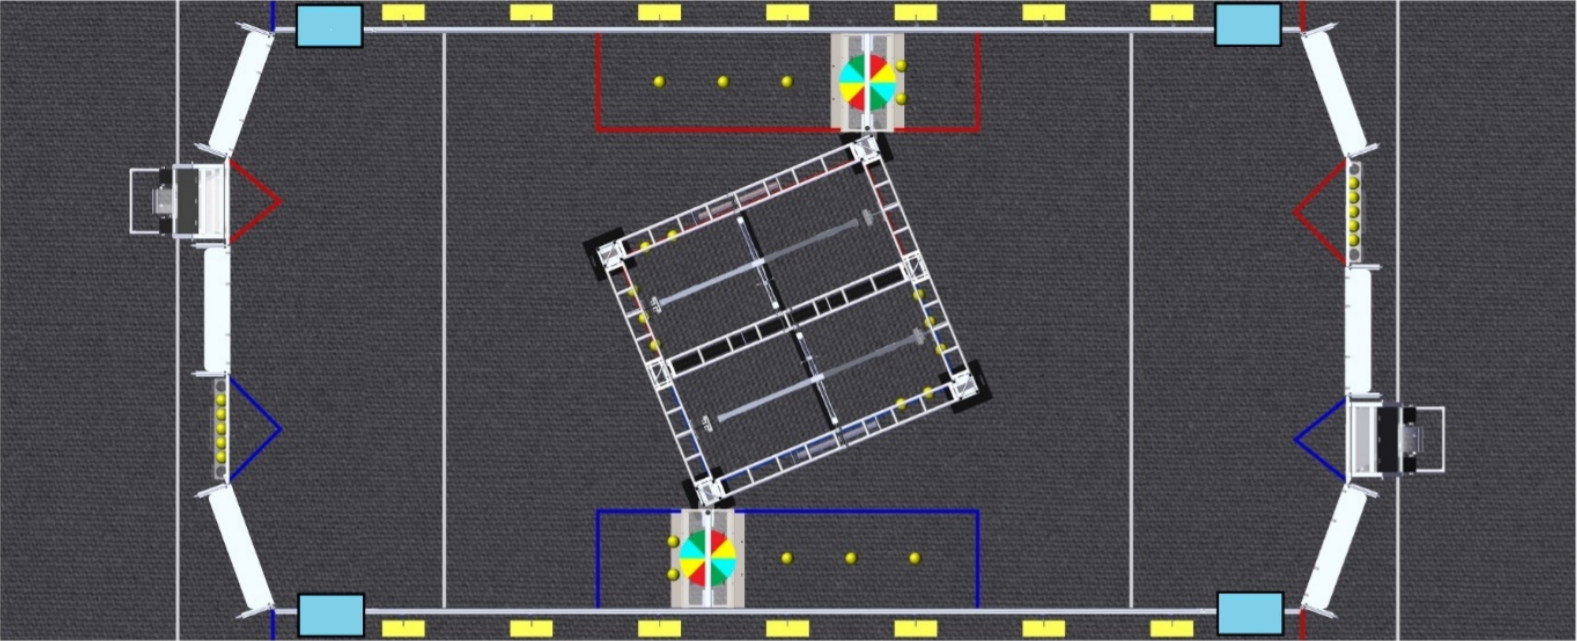
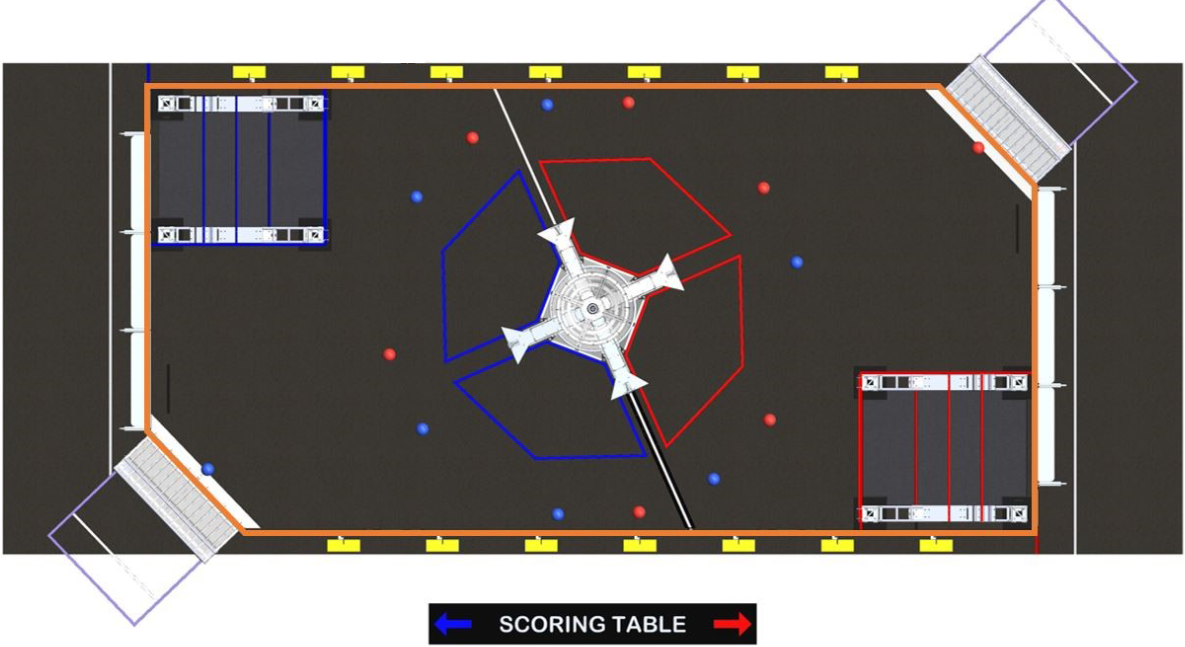
New FRC game

diff --git a/FRC/index.html b/FRC/index.html
@@ -12,63 +12,112 @@
     var field = new Image();
     field.src = "field.png";
     field.onload = function(){
-      ctx.drawImage(field, 0, 0, 1250, 600);
+      ctx.drawImage(field, 0, 0, 1185, 647);
     }
-    var loadingZone = new Polygon([new Point(180, 350), new Point(220, 400), new Point(180, 446)], "LOADING ZONE: a 5 ft. (~152 cm) wide, 2 ft. 6 in. (~76 cm) deep infinitely tall volume with a triangular \
-base bounded by the LOADING BAY and ALLIANCE colored tape. The LOADING ZONE includes the \
-ALLIANCE colored tape.");
-    var allianceStation = new Polygon([new Point(0, 0), new Point(140, 0), new Point(140, 600), new Point(0, 600)], "ALLIANCE STATION: a 30-ft. (~914 cm) wide by 10 ft. 9⅛ in. (~328 cm) to 12 ft. 10⅞ in. (~393 cm) deep \
+    var generalRules = "GENERAL RULES: \
+    \
+    ROBOT height, as measured when it's resting normally on a \
+flat floor, may not exceed the maximum STARTING CONFIGURATION height (4 ft. 4 in. (~132 \
+cm)) unless any part of the ROBOT'S BUMPERS is in its HANGAR ZONE, in which case its height \
+may not exceed 5 ft. 6 in. (~167 cm). ROBOTS may not extend more than 16 in. (~40 cm) beyond their \
+FRAME PERIMETER. A ROBOT may not position itself such that any part of its BUMPERS is higher than \
+the HIGH RUNG. ROBOTS may never extend beyond the PURPLE PLANE. ROBOTS may not PIN an opponent's ROBOT for more than 5 \
+seconds. \
+\
+A ROBOT may not contact (either directly or transitively through CARGO and \
+regardless of who initiates contact) an opponent ROBOT whose BUMPERS are contacting their \
+LAUNCH PAD. A ROBOT may not contact (either directly or transitively through CARGO and \
+regardless of who initiates contact). A ROBOT may not be fully supported by a partner ROBOT. \
+\
+During AUTO, a ROBOT with any part of its BUMPERS on the opposite \
+side of the FIELD (i.e. on the other side of the CENTER LINE from its ALLIANCE'S TARMACS) may \
+contact neither an opponent ROBOT nor CARGO still in its staged location on the opposite side of \
+the FIELD.\
+\
+ROBOTS may not have greater-than-MOMENTARY CONTROL of more than 2 \
+CARGO at a time, either directly or transitively through other objects. A ROBOT may not REPEATEDLY gain greater-than-MOMENTARY CONTROL \
+of CARGO released by an UPPER EXIT until and unless that CARGO contacts anything else \
+besides that ROBOT or CARGO controlled by that ROBOT.";
+    var loadingZone = new Polygon([new Point(160, 360), new Point(175, 360), new Point(175, 415), new Point(160, 415)], "CARGO LINE: a 3 ft. (~91 cm) black line that starts 1 ft. (~30 cm) from the intersection of the \
+TERMINAL and the ALLIANCE WALL and runs parallel to and 1 ft. (~30 cm) from the \
+ALLIANCE WALL.");
+    var allianceStation = new Polygon([new Point(4, 64), new Point(150, 64), new Point(150, 430), new Point(4, 550)], "ALLIANCE AREA: a 30-ft. (~914 cm) wide by 8 ft. 10in. (~269 cm) deep \
 infinitely tall volume formed by, and including the ALLIANCE WALL, the edge of the carpet, and \
-ALLIANCE colored tape. Scoring in autonomous: 2 points in LOWER PORT, 4 in OUTER PORT, 6 in INNER PORT. Points are halved during teleop.");
-    var initiationLine = new Polygon([new Point(340, 30), new Point(360, 30), new Point(360, 600), new Point(340, 600)], "INITIATION LINE: a white tape line spanning the width of the FIELD and located 10 ft. (~305 cm) from the \
-face of PLAYER STATION 2 to the near edge of the tape. An ALLIANCE’S INITIATION LINE is located in \
-the opponent’s SECTOR. You get 5 points for crossing during autonomous.");
-    var rendevousZone = new Polygon([new Point(483, 238), new Point(680, 137), new Point(725, 250), new Point(521, 347)], "RENDEZVOUS POINT: a 5 ft. 6¾ in. (~170 cm) wide, 12 ft. 6¾ in. (~383 cm) deep, infinitely tall volume \
-formed by the ALLIANCE colored BOUNDARIES and the black BOUNDARY pair that divides the Red \
-and the Blue BOUNDARIES. The RENDEZVOUS POINT includes the ALLIANCE colored BOUNDARIES. It is contained within the SHIELD GENERATOR. The SHIELD GENERATOR is a 14 ft. 1½ in. (~431 cm) wide, 15 ft. ¾ in. (~459 cm) deep, and 9 ft. 6½ in. \
-(~291 cm) tall structure located in the center of the field, oriented at a 22.5 degree angle relative to the \
-guardrails. The SHIELD GENERATOR has one (1) GENERATOR SWITCH per ALLIANCE. \
-BOUNDARIES divide the floor of the SHIELD GENERATOR into sections. Spaces between BOUNDARIES include flooring protection to prevent floor damage. All flooring between BOUNDARIES is \
-part of the SHIELD GENERATOR.");
-    var shieldGenerator = new Polygon([new Point(525, 350), new Point(730, 250), new Point(764, 357), new Point(564, 454)], "SHIELD GENERATOR: each SHIELD GENERATOR has one (1) GENERATOR SWITCH per ALLIANCE. A GENERATOR \
-    SWITCH is a 7 ft. 6 in. (~229 cm) wide, 10 ft. 1½ in. deep (~309 cm), and 4 ft. 6 in. (~137 cm) tall \
-    assembly that swings from the top of the SHIELD GENERATOR. Each GENERATOR SWITCH has a \
-    HANDLE. The HANDLE is a structure that consists of a RUNG and the supporting structure below the \
-    horizontal beam of the GENERATOR SWITCH. A RUNG is a 1¼ in. schedule 40 aluminum pipe (1.66 in. \
-    (~4 cm) outer diameter) with two (2) exposed 4 ft. 7⅝ in. (~141 cm) long sections. The amount of \
-    clearance above the RUNG varies from a minimum of 3½ in (~9 cm) to a maximum of 12 in (~30 cm). For \
-    safety, foam corner cushions line the lowest edges of the HANDLE. The SHIELD GENERATOR has a set of stack lights for each ALLIANCE which are enabled from the start \
-    of the END GAME until five (5) seconds after the MATCH. These lights illuminate when the corresponding \
-    GENERATOR SWITCH is LEVEL. \
-    Each half of the SHIELD GENERATOR features three (3) ALLIANCE colored light bars inside of the truss \
-    structure. \
-    The first light bar, inside the vertical truss section adjacent to the ALLIANCE’S TRENCH, \
-    turns on once Stage 1 is ACTIVATED. \
-    The second light bar, inside the vertical truss section closest to the ALLIANCE’S POWER \
-    PORT, turns on once Stage 2 is ACTIVATED. \
-    The third light bar, inside the horizontal truss connecting the two (2) previous truss sections, \
-    turns on once Stage 3 is ACTIVATED. In Endgame: 25 points for CLIMB, 5 points for PARK. 65 end-game points yields 1 RANK POINT.")
-    var sector = new Polygon([new Point(216, 30), new Point(340, 60), new Point(340, 600), new Point(216, 600)], "SECTOR: A 26 ft. 11¼ in. (~821 cm) wide by 10 ft. 2 in. (~310 cm) deep infinitely tall volume formed by \
-an ALLIANCE’S ALLIANCE WALL, guardrail, and INITIATION LINE. The SECTOR includes the \
-INITIATION LINE.");
-    var targetZone = new Polygon([new Point(180, 150), new Point(215, 186), new Point(180, 225)], "TARGET ZONE: a 4 ft. (~122 cm) wide, 2 ft. 6 in. (~76 cm) deep infinitely tall volume with a triangular \
-base bounded by the POWER PORT and ALLIANCE colored tape. The TARGET ZONE includes the \
-ALLIANCE colored tape.");
-    var trenchRun = new Polygon([new Point(474, 570), new Point(474, 478), new Point(771, 478), new Point(771, 570)], "TRENCH RUN: a 4 ft. 7 ½ in. (~141 cm) wide, 18 ft. (~549 cm) deep, infinitely tall volume that is bounded \
-by the guardrail, the edge of the TRENCH vertical support closest to the center of the FIELD, and \
-ALLIANCE colored tape. The TRENCH RUN includes the ALLIANCE colored tape. Each ALLIANCE has a TRENCH in their TRENCH RUN that spans the gap between the guardrail and \
-SHIELD GENERATOR. On the top of each TRENCH is an ALLIANCE specific CONTROL PANEL and a \
-yellow stack light. Each TRENCH is a 3 ft. ½ in. (~93 cm) tall, 4 ft. 8 in. (~142 cm) wide, and 3 ft. 5½ in. (~105 cm) deep \
-structure that forms a 4 ft. 4 in. (~132 cm) wide, 2 ft. 4 in. (~71 cm) tall, and 2 ft. 6 in. (~76 cm) deep \
-tunnel. Each TRENCH has two (2) ⅛ in. (~3 mm) thick baseplates. Each baseplate has two (2) 1-in. \
-(~3cm) diameter holes used to stage POWER CELLS. Holes are 1 ft. 6½ in. (~47 cm) apart.");
-    var controlPanel = new Polygon([new Point(530, 500), new Point(584, 500), new Point(580, 550), new Point(536, 538)], "A CONTROL PANEL is centered on the top of each TRENCH. The CONTROL PANEL is a 2 in. (~5 cm) \
-tall, 2 ft. 8 in. (~81 cm) diameter disk constructed of two pieces of ¼ in. (~6 mm) thick polycarbonate, \
-spaced apart by ten ½ in. (~13 mm) diameter metal spacers at regular intervals. The centers of the \
-spacers are located 1 in. (~3 cm) in from the outer perimeter of the CONTROL PANEL. The bottom edge \
-of the CONTROL PANEL is located 2 ft. 6¼ in. (~77 cm) above the carpet. 10 points for ROTATION CONTROL, 20 points for POSITION CONTROL.");
+ALLIANCE colored tape. It includes neither the TERMINAL AREA nor the TERMINAL.");
+    var initiationLine = new Polygon([new Point(150, 90), new Point(325, 90), new Point(325, 245), new Point(150, 245)], "HANGAR ZONE: a 9 ft. 8 in. (~295 cm) wide, 10 ft. 8¾ in. (327 cm) deep, and infinitely tall \
+volume defined by the ALLIANCE WALL, guardrail, and ALLIANCE colored tape. The HANGAR \
+ZONE includes the tape. Also includes SHADOW LINE: a black line that lies directly below the MID RUNG. A team will earn 4 points for hanging on the LOW RUNG, 6 points on the MID RUNG, 10 points on the HIGH RUNG, and 15 points on the TRAVERSAL RUNG. If an ALLIANCE earns 16 HANGAR points, it earns (1) additional RANKING POINT.\
+\
+A HANGAR is located in front of each HANGAR WALL and DRIVER STATION 1. A HANGAR assembly \
+consists of truss structure, bases, 4 RUNGS, RUNG mounting brackets, floor protection, and 2 LAUNCH \
+PADS. The maximum ROBOT height limit described in G106 is marked on the center of each horizontal \
+truss assembly in black tape (i.e. the bottom edge of the tape is 5 ft. 6 in. (~168 cm) above FIELD carpet). \
+\
+Each HANGAR has 4 RUNGS highlighted in Figure 5-16: LOW, MID, HIGH, and TRAVERSAL. RUNGS are 1¼ \
+in. Schedule 40 steel pipes, with a 1.66 in. (~4 cm) outer diameter, and are powder coated to reflect the \
+ALLIANCE color. RUNGS are 7 ft. (~213 cm) wide and bound by the truss and brackets (note that pipe\
+that overlaps the truss structure and brackets is not considered part of the RUNG).\
+\
+The top of the LOW RUNG is 4 ft. ¾ in. (~124 cm) above \
+FIELD carpet. The top of the MID RUNG is 5 ft. ¼ in. (~153 cm) above floor protection carpet, and its \
+center is 3 ft. 6 in. (~107 cm) from the center of the LOW RUNG. The top of the HIGH RUNG is 6 ft. 3⅝ in. \
+(~192 cm) above floor protection carpet, and the top of the TRAVERSAL RUNG is 7 ft. 7 in. (~231 cm) \
+above floor protection carpet. MID, HIGH, and TRAVERSAL RUNGS are spaced such that their centers are \
+2 ft. (~61 cm) apart. The horizontal distance between the center of the TRAVERSAL RUNG and the \
+ALLIANCE WALL is 3 ft. 3 in. (~99 cm).");
+    var rendevousZone = new Polygon([new Point(520, 164), new Point(560, 260), new Point(535, 315), new Point(445, 360), new Point(440, 250)], "TARMAC: 1 of 4 (2 per ALLIANCE) 12 ft. 9 in. (~389 cm) wide by 7 ft. ¾ in. (~215 cm) deep \
+infinitely tall volumes bounded by and including the ALLIANCE colored tape. Each ROBOT must start the match such that its BUMPERS are fully contained within 1 of its TARMACS. In AUTONOMOUS mode, a team may score 2 MATCH points by having its ROBOT completely leave its starting TARMAC at any point during AUTO.");
+    var tarmac = new Polygon([new Point(450, 380), new Point(545, 345), new Point(600, 360), new Point(645, 455), new Point(535, 460)], rendevousZone.text);
+    var shieldGenerator = new Polygon([new Point(50, 535), new Point(115, 470), new Point(200, 560), new Point(135, 630)], "TERMINAL AREA: 1 of 2 7 ft. 8½ in, (~235 cm) wide by 6 ft. 9 in. (~206 cm) deep and infinitely \
+tall volumes bounded by and including purple tape. Includes the TERMINAL STARTING LINE: a white line spanning the width of the TERMINAL AREA and \
+located 2 ft. (~61 cm) from the back of the TERMINAL AREA. \
+\
+One TERMINAL is in each of the 2 FIELD corners opposite the HANGARS. Each TERMINAL is shared \
+between ALLIANCES. A TERMINAL consists of 1 ramp, 1 GUARD, 1 PURPLE PLANE, 1 CHUTE, and other \
+structure elements shown in Figure 5-20. Each TERMINAL has 5 CARGO delivery openings through which \
+ROBOTS may transfer CARGO to HUMAN PLAYERS. The space between the PURPLE PLANE and the \
+retention chain can hold approximately 10 CARGO. \
+\
+Each TERMINAL is 4 ft. (~122 cm) deep, 8 ft. 1⅛ in. (~247 cm) wide (excluding the ends of the ramp) and \
+is a maximum of 5 ft. 1¾ in. (~157 cm) tall. A 2¾ in. (~7 cm) tall ramp leads to the 1 ft. 5¼ in. (~44 cm) wide, 1 ft. (~30 cm) tall openings.")
 
-    var polygons = [controlPanel, loadingZone, allianceStation, initiationLine, rendevousZone, sector, targetZone, shieldGenerator, trenchRun];
+    var sector = new Polygon([new Point(545, 330), new Point(570, 260), new Point(640, 290), new Point(615, 360)], "The HUB is centered on the FIELD and shared between ALLIANCES. It consists of 2 funnel-shaped goals \
+(an UPPER HUB and a LOWER HUB), UPPER and LOWER EXITS, and 4 fenders. The HUB is 8 ft. 11 in. \
+(~272 cm) wide by 8 ft. 11 in. (~272 cm) deep by 8 ft. 8 in. (~264 cm) tall. CARGO in the LOWER HUB during AUTONOMOUS is worth 2 points, and CARGO in the UPPER HUB during AUTONOMOUS is worth 4 points. Point values are halved during the TELEOPERATED period of the match.\
+If 20 or more ALLIANCE colored CARGO is scored in the HUB, an ALLIANCE earns (1) additional RANKING POINT. If at least 5 ALLIANCE colored CARGO are scored in AUTO, called a QUIINTET, this threshold drops to 18. \
+\
+An agitator extends up the center of each HUB and rotates throughout the MATCH. Generally, the agitator \
+causes a single CARGO dropped into the UPPER HUB to reenter play in approximately 7 seconds and a \
+CARGO dropped in the LOWER HUB to reenter play in approximately 5 seconds. An UPPER EXIT is 1 of the 4 extensions on which CARGO leaves the UPPER HUB, and a LOWER EXIT is \
+one of the 4 tunnels from which CARGO leaves the LOWER HUB. \
+\
+4 legs, each centered under an UPPER EXIT, support the UPPER HUB. The maximum ROBOT height \
+defined in G106 is marked with black tape on each leg (i.e. the bottom edge of the tape is 4 ft. 4 in. (~132 \
+cm) above FIELD carpet). A fender is located in between each of the LOWER EXITS. \
+\n\
+The opening of the LOWER HUB is 3 ft. 5 in. (~104 cm) above FIELD carpet, and the opening of the UPPER \
+HUB is 8 ft. 8 in. (~264 cm) above the FIELD carpet. A web of #2 black plastic chain is hung 7½ in. (~19 \
+cm) below the rim of the LOWER HUB opening. \
+\
+The UPPER HUB opening has a 4-ft. (~122-cm) diameter, and the LOWER HUB opening has a 5-ft. ⅛ in. \
+(~153 cm) diameter. he UPPER HUB is marked with a single 360° vision target consisting of 5 in. (~13 cm) long strips of 2 in. \
+(~5 cm) wide 3M 8830 Scotchlite™ Reflective Material. A sample of the material is included in each \
+Rookie Kickoff Kit and FIRST Choice. The target is a 4 ft. 5⅜ in. (~136 cm) diameter ring of plastic with 16 \
+strips adhered to it with 5½ in. (~14 cm) gaps between them. The ring is aligned such that 1 of the gaps is \
+centered over each UPPER EXIT. The distance from FIELD carpet to the top of the target is 8 ft. 8 in. \
+(~264 cm). \
+\
+The HUB is surrouned by CARGO RING: 1 of 14 small rings used to keep the CARGO in place prior to the start of the \
+MATCH. Rings are ⅛ in. (~3mm) thick, 1¾ in. (~4 cm) diameter O-rings (McMaster Item#: \
+9452K63). 12 rings are placed around the HUB, and 1 ring is in front of each TERMINAL. They \
+are secured to FIELD carpet with red or blue tape to indicate the color CARGO to be placed on \
+it.");
+    var targetZone = new Polygon([new Point(325, 90), new Point(355, 90), new Point(355, 120), new Point(325, 120)], "LAUNCH PADS are mounted to the 2 truss legs closest to the HUB such that they are flush to the top of \
+the truss base. Each LAUNCH PAD is a piece of ¼ in. (~6 mm) thick, 1 ft. 5¼ in. (~44 cm) tall, and 10 in. \
+(~25 cm) wide HDPE of the corresponding ALLIANCE color. When a ROBOT is in contact with the LAUNCH PAD, other ROBOTS may not initiate contact with said ROBOT.");
+    var pad = new Polygon([new Point(325, 220), new Point(355, 220), new Point(355, 240), new Point(325, 240)], targetZone.text);
+
+    var polygons = [loadingZone, allianceStation, initiationLine, rendevousZone, sector, targetZone, shieldGenerator, tarmac, pad];
 
 
     function getMousePos(canvas, evt){
@@ -160,7 +209,7 @@ of the CONTROL PANEL is located 2 ft. 6¼ in. (~77 cm) above the carpet. 10 poin
         }
       }
       if(!done){
-        document.getElementById("desc").innerHTML = '';
+        document.getElementById("desc").innerHTML = generalRules;
       }
       requestAnimationFrame(main);
     }
@@ -182,6 +231,7 @@ of the CONTROL PANEL is located 2 ft. 6¼ in. (~77 cm) above the carpet. 10 poin
 </head>
 <body style="font-family:Arial;">
   <h1>Team 612's FIRST Infinite Recharge Description</h1>
-  <p id="desc" style="height:20%;font-size:15px;"></p>
+  <p>Hover over different parts of the field, and the relevant rules will appear below. For the sake of symmetry, and to save time, I have only marked the left half of the field, and when applicable, the blue alliance pieces.</p><br>
+  <p id="desc" style="height:32%;font-size:15px;"></p>
   <canvas id="canvas" style="width:100%;height:100%"></canvas>
 </body>
